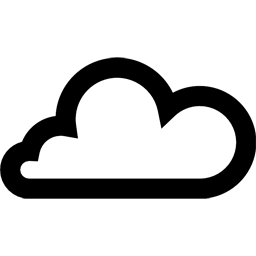
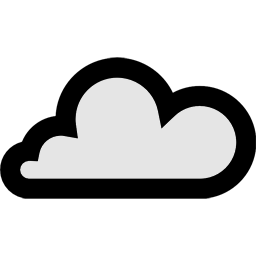
Fixing smaller UI bugs prior to release.

Changed region(s): [[0.0625, 0.2812, 0.9375, 0.7188]]

diff --git a/UI/UI/View/SearchViewControl.xaml b/UI/UI/View/SearchViewControl.xaml
@@ -50,7 +50,7 @@
             <Setter Property="Template">
                 <Setter.Value>
                     <ControlTemplate TargetType="{x:Type Button}">
-                        <Grid x:Name="Chrome" Background="Gainsboro" SnapsToDevicePixels="true">
+                        <Grid x:Name="Chrome" SnapsToDevicePixels="true">
                             <ContentPresenter HorizontalAlignment="{TemplateBinding HorizontalContentAlignment}" 
                                 Margin="{TemplateBinding Padding}" RecognizesAccessKey="True" 
                                 SnapsToDevicePixels="{TemplateBinding SnapsToDevicePixels}" 

diff --git a/UI/UI/View/Search/Converters/HighlightSearchKey.cs b/UI/UI/View/Search/Converters/HighlightSearchKey.cs
@@ -34,7 +34,7 @@ namespace Sando.UI.View.Search.Converters {
                      num = preNum + 1;
                      preNum = num;
                  }
-                line.AddBeginning(CreateRun("\t", FontWeights.Medium));
+                line.AddBeginning(CreateRun("\t", regularWeight));
                 line.AddBeginning(CreateLineNumberHyperLink(num));
              }
              return lines;
@@ -45,7 +45,7 @@ namespace Sando.UI.View.Search.Converters {
         /*    var link = new Hyperlink(CreateRun(number.ToString(), 
                 FontWeights.Medium)) {Foreground = Brushes.CadetBlue};
             link.Click += ClickLineNumber;*/
-            var run = CreateRun(number.ToString(), FontWeights.Medium);
+            var run = CreateRun(number.ToString(), regularWeight);
             run.Foreground = Brushes.CadetBlue;
             return run;
         }
@@ -128,13 +128,13 @@ namespace Sando.UI.View.Search.Converters {
                         foreach (string item in temp)
                         {
                             span.Inlines.Add(IsSearchKey(item, key)
-                                ? CreateRun(item, FontWeights.Bold)
-                                    : CreateRun(item, FontWeights.Medium));
+                                ? CreateRun(item, highlightedWeight, SearchViewControl.GetHistoryTextColor())
+                                    : CreateRun(item, regularWeight));
                         }
                     }
                     else
-                        span.Inlines.Add(CreateRun(line, FontWeights.Medium));
-                    span.Inlines.Add(CreateRun(Environment.NewLine, FontWeights.Medium));
+                        span.Inlines.Add(CreateRun(line, regularWeight));
+                    span.Inlines.Add(CreateRun(Environment.NewLine, regularWeight));
                 }
                 return ClearSpan((IHighlightRawInfo)inforValue, span, emptyLineOffsets);
             }
@@ -144,10 +144,14 @@ namespace Sando.UI.View.Search.Converters {
             }
         }
 
+        FontWeight highlightedWeight = FontWeights.UltraBold;
+        FontWeight regularWeight = FontWeights.Medium;
 
-        private Run CreateRun(String text, FontWeight fontWeight)
+        private Run CreateRun(String text, FontWeight fontWeight, Brush color = null)
         {
             var brush = GetForeground();
+            if (color != null)
+                brush = color;            
             return new Run(text) { FontWeight = fontWeight, FontFamily = new FontFamily("Courier"), Foreground = brush};
         }
 
@@ -192,7 +196,7 @@ namespace Sando.UI.View.Search.Converters {
             foreach (var line in lines)
             {
                 items.AddRange(line.GetItems());
-                items.Add(CreateRun(Environment.NewLine, FontWeights.Medium));
+                items.Add(CreateRun(Environment.NewLine, regularWeight));
             }
             return items;
         }
@@ -203,7 +207,7 @@ namespace Sando.UI.View.Search.Converters {
             foreach (var index in indexes)
             {
                 var line = new InlineItemLine();
-                line.AddItem(CreateRun(String.Empty, FontWeights.Medium));
+                line.AddItem(CreateRun(String.Empty, regularWeight));
                 lines.Insert(index, line);
             }
             return lines;
@@ -232,7 +236,7 @@ namespace Sando.UI.View.Search.Converters {
                 var firstHead = lines.First().GetHeadingWhiteSpace();
                 if (firstHead.Equals(string.Empty) && !lastHead.Equals(string.Empty))
                 {
-                    lines.First().AddBeginning(CreateRun(lastHead, FontWeights.Medium));
+                    lines.First().AddBeginning(CreateRun(lastHead, regularWeight));
                 }
             }
             return lines;

diff --git a/UI/UI/View/RecommendedQueryView.cs b/UI/UI/View/RecommendedQueryView.cs
@@ -50,7 +50,7 @@ namespace Sando.UI.View
             foreach (string query in quries)
             {
                 var hyperlink = new SandoQueryHyperLink(new Run(RemoveDuplicateTerms(query, 
-                    toRemoveList)), query);
+                    toRemoveList)), query);                
                 hyperlink.Click += RecommendedQueryOnClick;
                 RecommendedQueryTextBlock.Inlines.Add(hyperlink);
                 RecommendedQueryTextBlock.Inlines.Add("  ");
@@ -88,6 +88,7 @@ namespace Sando.UI.View
                 : base(run)
             {
                 this.Query = query;
+                this.Foreground = GetHistoryTextColor();
             }
         }
 
@@ -202,19 +203,22 @@ namespace Sando.UI.View
 
         private void CreateTagCloud(String[] words)
         {
-            var dictionary = ServiceLocator.Resolve<DictionaryBasedSplitter>();
-            var builder = new TagCloudBuilder(dictionary, words);
-            var hyperlinks = builder.Build().Select(CreateHyperLinkByShapedWord);
+            System.Threading.Tasks.Task.Factory.StartNew(() =>
+            {
+                    var dictionary = ServiceLocator.Resolve<DictionaryBasedSplitter>();
+                    var builder = new TagCloudBuilder(dictionary, words);
+                    var hyperlinks = builder.Build().Select(CreateHyperLinkByShapedWord);
 
-            if (Thread.CurrentThread == Dispatcher.Thread)
-            {
-                UpdateTagCloudWindow(words, hyperlinks);
-            }
-            else
-            {
-                Dispatcher.Invoke((Action) (() => UpdateTagCloudWindow(words
-                    , hyperlinks)));
-            }
+                    if (Thread.CurrentThread == Dispatcher.Thread)
+                    {
+                        UpdateTagCloudWindow(words, hyperlinks);
+                    }
+                    else
+                    {
+                        Dispatcher.Invoke((Action)(() => UpdateTagCloudWindow(words
+                            , hyperlinks)));
+                    }
+            });
         }
 
 
@@ -297,7 +301,7 @@ namespace Sando.UI.View
             return brush;
         }
 
-        internal Brush GetHistoryTextColor()
+        internal static Brush GetHistoryTextColor()
         {
             var key = Microsoft.VisualStudio.Shell.VsBrushes.ToolWindowTabMouseOverTextKey;
             return (Brush)Application.Current.Resources[key];

diff --git a/UI/UI/View/Search/Converters/SwumTypeToColorConverter.cs b/UI/UI/View/Search/Converters/SwumTypeToColorConverter.cs
@@ -43,7 +43,7 @@ namespace Sando.UI.View.Search.Converters
         private Brush GetColorHistory()
         {
             if (historyColor == null)
-                historyColor = ServiceLocator.Resolve<SearchViewControl>().GetHistoryTextColor();
+                historyColor = SearchViewControl.GetHistoryTextColor();
             return historyColor;
         }
 
